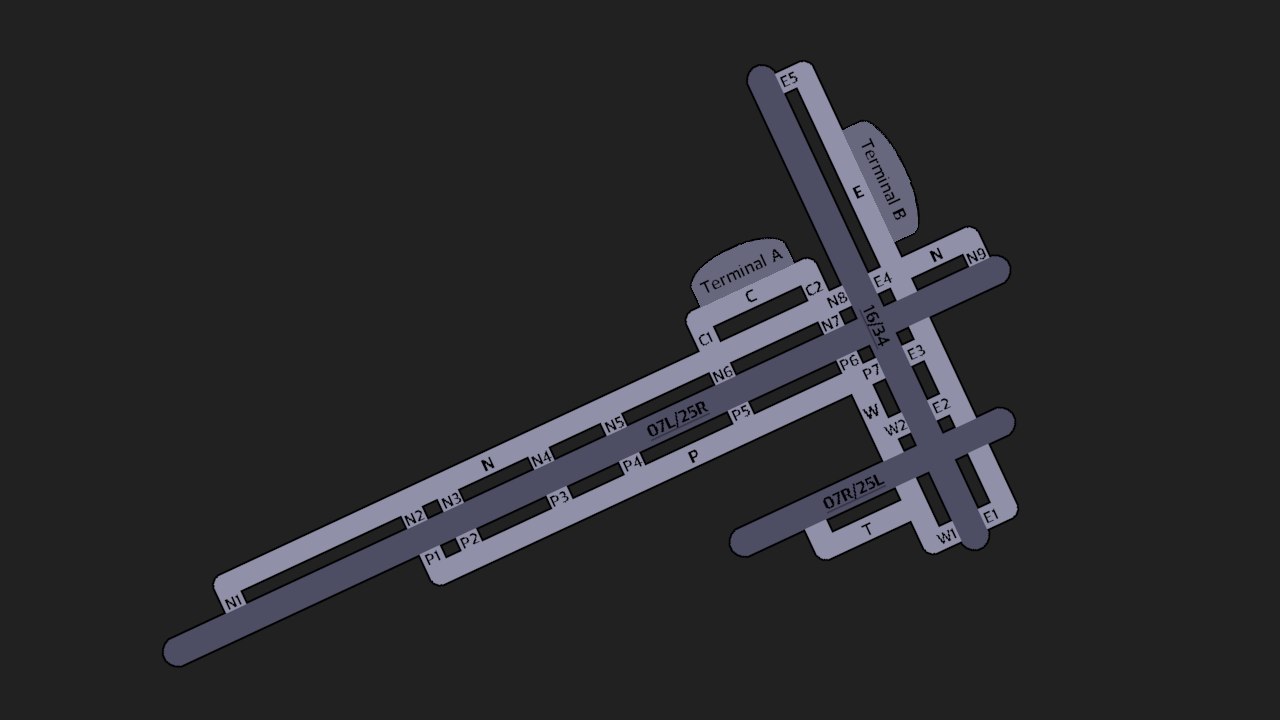
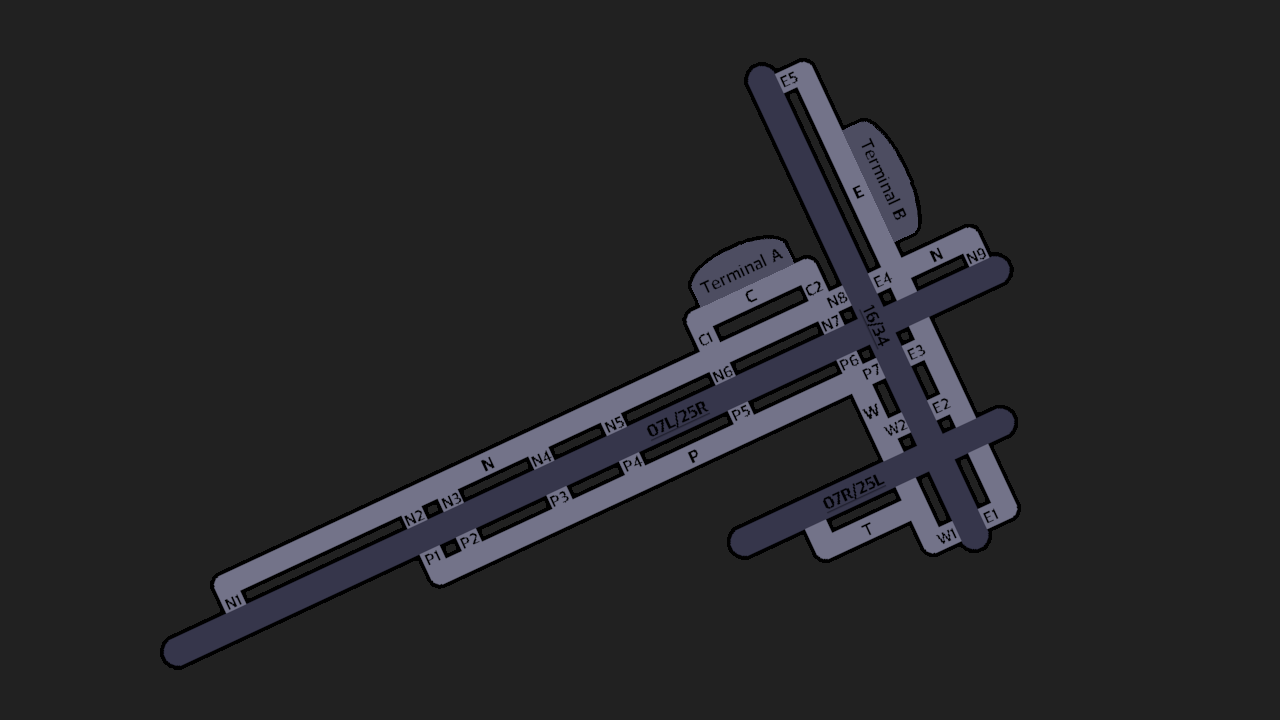
manual wind

Changed region(s): [[0.125, 0.0917, 0.8125, 0.9472]]

diff --git a/src/user_interface.py b/src/user_interface.py
@@ -6,13 +6,20 @@ from .plane_agent import DEPARTED_ALTITUDE, plane_queue
 import math
 import numpy as np 
 import matplotlib as plt
+from utils.logger import ARTSSClock
 
-FPS = 10 
+FPS = 2 
 WIDTH = 1280
 HEIGHT = 720
 GRID_SPACE_SIZE = 20
 MAX_PLANE_SCALE = 4
-WIND_ARROW_COLOR = (255, 0, 85)
+#WIND_ARROW_COLOR = (255, 0, 85)
+WIND_ARROW_COLOR = (255, 255, 255)
+#COMPASS_BG_COLOR = (77, 77, 97)
+COMPASS_BG_COLOR = (27, 27, 37)
+#LOWER_COMPASS_BG_COLOR = (95, 95, 117)
+LOWER_COMPASS_BG_COLOR = (0, 0, 0)
+COMPASS_DIR_COLOR = (190, 180, 180)
 
 
 def get_line_type(start, end):
@@ -99,7 +106,7 @@ def draw_text_with_outline(surface, text, font, pos, text_color, outline_color, 
 class Simulation():
     def __init__(self, ui):
         self.ui = ui
-        airport_image = pygame.image.load("graphics/sim_bg_demo.png")
+        airport_image = pygame.image.load("graphics/sim_bg_demo_no_labels.png")
         self.airport_background = pygame.transform.scale(airport_image, (WIDTH, HEIGHT))
 
         # grid for testing purposes
@@ -119,7 +126,7 @@ class Simulation():
 
         self.plane_surface = pygame.Surface((WIDTH, HEIGHT), pygame.SRCALPHA)
 
-        self.wind_arrow = pygame.image.load("graphics/wind_arrow.png")
+        self.wind_arrow = pygame.image.load("graphics/wind_arrow_white.png")
         self.font = pygame.font.Font(None, 34)
         self.smaller_font = pygame.font.Font(None, 30)
 
@@ -139,7 +146,7 @@ class Simulation():
         for n, plane in enumerate(plane_queue):
             #color = get_rainbow_color(n) 
             plane_img = self.plane_imgs[plane.get_aircraft_type().value - 1] 
-            #plane_img = colorize_image(plane_img, color)
+            plane_img = colorize_image(plane_img, WIND_ARROW_COLOR)
             facing_angle = plane.get_facing_direction().value
             mx, my = plane.get_map_pos()
             scale_factor = ((plane.altitude / DEPARTED_ALTITUDE) * (MAX_PLANE_SCALE - 1)) + 1 
@@ -153,20 +160,19 @@ class Simulation():
         ps = pygame.transform.rotate(self.plane_surface, 25) 
         screen.blit(ps, (WIDTH/2 - ps.get_width() / 2, HEIGHT/2 - ps.get_height() / 2))
 
-        """
-        CENTER_X = 100
-        CENTER_Y = 100
-        pygame.draw.rect(screen, (0, 0, 0), (40, 100, 120, 104), border_radius=10)
-        pygame.draw.rect(screen, (30, 30, 30), (44, 100, 112, 100), border_radius=10)
+        CENTER_X = 550
+        CENTER_Y = 200
+        pygame.draw.rect(screen, (0, 0, 0), (CENTER_X-60, CENTER_Y, 120, 134), border_radius=10)
+        pygame.draw.rect(screen, COMPASS_BG_COLOR, (CENTER_X-56, CENTER_Y, 112, 130), border_radius=8)
         pygame.draw.circle(screen, (0, 0, 0), (CENTER_X, CENTER_Y), 67) 
-        pygame.draw.circle(screen, (100, 100, 100), (CENTER_X, CENTER_Y), 63) 
+        pygame.draw.circle(screen, COMPASS_BG_COLOR, (CENTER_X, CENTER_Y), 63) 
         pygame.draw.circle(screen, (0, 0, 0), (CENTER_X, CENTER_Y), 38) 
-        pygame.draw.circle(screen, (30, 30, 30), (CENTER_X, CENTER_Y), 34) 
+        pygame.draw.circle(screen, LOWER_COMPASS_BG_COLOR, (CENTER_X, CENTER_Y), 34) 
         pygame.draw.circle(screen, (0, 0, 0), (CENTER_X, CENTER_Y), 10) 
-        draw_text_with_outline(screen, "N", self.smaller_font, (92, 40), (150, 140, 140), (0, 0, 0), 2, False)
-        draw_text_with_outline(screen, "S", self.smaller_font, (94, 142), (150, 140, 140), (0, 0, 0), 2, False)
-        draw_text_with_outline(screen, "E", self.smaller_font, (143, 92), (150, 140, 140), (0, 0, 0), 2, False)
-        draw_text_with_outline(screen, "W", self.smaller_font, (40, 92), (150, 140, 140), (0, 0, 0), 2, False)
+        draw_text_with_outline(screen, "N", self.smaller_font, (CENTER_X-8, CENTER_Y-60), COMPASS_DIR_COLOR, (0, 0, 0), 2, False)
+        draw_text_with_outline(screen, "S", self.smaller_font, (CENTER_X-6, CENTER_Y+42), COMPASS_DIR_COLOR, (0, 0, 0), 2, False)
+        draw_text_with_outline(screen, "E", self.smaller_font, (CENTER_X+43, CENTER_Y-8), COMPASS_DIR_COLOR, (0, 0, 0), 2, False)
+        draw_text_with_outline(screen, "W", self.smaller_font, (CENTER_X-60, CENTER_Y-8), COMPASS_DIR_COLOR, (0, 0, 0), 2, False)
 
         wind = get_wind_info()
         wind_arrow_size = self.wind_arrow.get_size()
@@ -179,13 +185,15 @@ class Simulation():
         rot_rect.center = (CENTER_X, CENTER_Y)
         screen.blit(wind_arrow_rot, rot_rect.topleft)
 
-        draw_text_with_outline(screen, f"{wind[1]} knots", self.font, (100, 182), WIND_ARROW_COLOR, (0, 0, 0), 2, True)
-        """
+        draw_text_with_outline(screen, f"{wind[1]} knots", self.font, (CENTER_X, CENTER_Y+82), WIND_ARROW_COLOR, (0, 0, 0), 2, True)
+
+        the_time = str(ARTSSClock.ticks)
+        draw_text_with_outline(screen, f"Tick #{the_time}", self.font, (CENTER_X, CENTER_Y+112), WIND_ARROW_COLOR, (0, 0, 0), 2, True)
 
         # draw paths 
         half_grid_space_size = GRID_SPACE_SIZE / 2
         path_surface = pygame.Surface((WIDTH, HEIGHT), pygame.SRCALPHA)
-        line_width = 2
+        line_width = 4
         for n, plane in enumerate(plane_queue):
             """
             if self.debug_flag:
@@ -195,10 +203,11 @@ class Simulation():
             else:
                 paths = plane.get_debug_paths()
             """
-            paths = plane.get_debug_paths()
+            paths = [plane.current_path]
             drawn = []
             for j, path in enumerate(paths):
-                color = get_rainbow_color(len(paths), j) 
+                #color = get_rainbow_color(len(paths), j) 
+                color = WIND_ARROW_COLOR 
                 prev = plane.get_map_pos()
                 for i, node in enumerate(path):
                     top_left = (node[0] * GRID_SPACE_SIZE, node[1] * GRID_SPACE_SIZE) 

diff --git a/utils/map_handler.py b/utils/map_handler.py
@@ -16,8 +16,8 @@ winds = []
 #wind_direction = random.randrange(0, 360) # deg 
 #wind_speed = random.randrange(MIN_WIND_SPEED, MAX_WIND_SPEED + 1) # knots 
 wind_direction = 0 
-wind_speed = 20 
-winds.append((wind_direction, wind_speed))
+wind_speed = 0 
+#winds.append((wind_direction, wind_speed))
 
 
 def get_wind_info():
@@ -47,7 +47,9 @@ def debug_init_winds(samples):
     global winds
     global wind_direction
     global wind_speed
-    winds = [(wind_direction, wind_speed) for i in range(samples)]
+    winds = [(70, 12) for i in range(15)]
+    winds.extend([(340, 12) for i in range(samples)])
+    #winds = [(wind_direction, wind_speed) for i in range(samples)]
 
 
 def init_winds(samples):
@@ -115,6 +117,7 @@ class Tile():
 
 
 def get_random_gate(gates_in_use, flight_num):
+    return "B1" 
     gate = random.choice(list(gates.items()))[0]
     char_to_check = "A" if flight_num[:2] == "ER" else "B" # gates B-XX are exclusive to ERU flights 
     while gate in gates_in_use or gate[0] == char_to_check:
@@ -214,7 +217,6 @@ def find_taxiway_path(plane, queue):
     plane_ticks_per_tile = plane.aircraft_info["ticks_per_tile"]
     min_runway_required = plane.aircraft_info["required_runway_space"]
     routes = get_all_routes_no_wind(plane.get_pos(), min_runway_required)
-    return routes
     crosswinds, headwinds, temp_rwa = get_winds(plane_ticks_per_tile, routes)
     routes, grades = grade_routes(plane, routes, crosswinds, headwinds, queue, temp_rwa) 
     lowest_grade = min(grades) 

diff --git a/src/atc_agent.py b/src/atc_agent.py
@@ -24,9 +24,8 @@ class Agent():
             return (f"{fn}, {AIRPORT} Ground, cleared for pushback and engine start, advise ready to taxi.", CommunicationType.PUSHBACK_CLEARANCE)
         if ct == CommunicationType.TAXI_CLEARANCE:
             full_path = find_taxiway_path(plane, get_plane_queue())
-            plane.set_debug_paths(full_path)
+            plane.set_debug_paths([full_path])
             
-            """
             runway_node = full_path[-4]
             map = get_map()
             runway_number = map[runway_node[0]][runway_node[1]].info
@@ -47,7 +46,6 @@ class Agent():
             print(f"ASSIGNED PLANE PATH: {plane.current_path}")
 
             return (f"{fn}, taxi to runway {runway_number}, via taxiways {taxiways}, hold short of runway {runway_number}.", CommunicationType.TAXI_CLEARANCE)
-            """
             return (f"", CommunicationType.NONE)
         if ct == CommunicationType.HOLDING_SHORT:
             runway_number = plane.flight_data["runway"] 

diff --git a/utils/flight_data_handler.py b/utils/flight_data_handler.py
@@ -62,7 +62,16 @@ def generate_flight_data(gates_in_use, status=FlightStatus.AT_GATE):
 
 def generate_aircraft_info(): 
     airline = used_flight_nums[-1][:2] # assuming this function is called after generate_flight_data 
-    aircraft_type = PlaneCategory.SMALL if airline == "ER" else random.choice([PlaneCategory.LARGE, PlaneCategory.DEFAULT])
+    #aircraft_type = PlaneCategory.SMALL if airline == "ER" else random.choice([PlaneCategory.LARGE, PlaneCategory.DEFAULT])
+    aircraft_type = PlaneCategory.DEFAULT
+
+    return {
+        "type" : aircraft_type, 
+        "crosswind_limit" : 20, # knots
+        "required_runway_space" : 15, # num squares required to takeoff and land
+        "ticks_per_tile" : 2, # num clock cycles to cover a tile (speed kinda) 
+    }
+
     
     if aircraft_type == PlaneCategory.LARGE:
         return {

diff --git a/utils/logger.py b/utils/logger.py
@@ -14,8 +14,9 @@ class ARTSSClock():
         tick_minutes = ARTSSClock.ticks / ARTSSClock.TICKS_PER_MINUTE 
         minutes = int(ARTSSClock.start_time[2:]) + tick_minutes
         hours = (int(ARTSSClock.start_time[:2]) + (minutes // 60)) % 24 
-        minutes %= 60
-        return f"{int(hours)}:{int(minutes)}" 
+        minutes = int(minutes % 60)
+        str_mins = f"0{minutes}" if minutes < 10 else f"{minutes}"
+        return f"{int(hours)}:{str_mins}" 
 
 
 class Logger():

diff --git a/src/sim.py b/src/sim.py
@@ -13,8 +13,8 @@ class ARTSS():
     def __init__(self):
         self.atc_agent = Agent()
         init_plane_queue(STARTING_PLANE_COUNT)
-        init_winds(300)
-        #debug_init_winds(300)
+        #init_winds(300)
+        debug_init_winds(300)
 
     def tick(self):
         ARTSSClock.tick()
